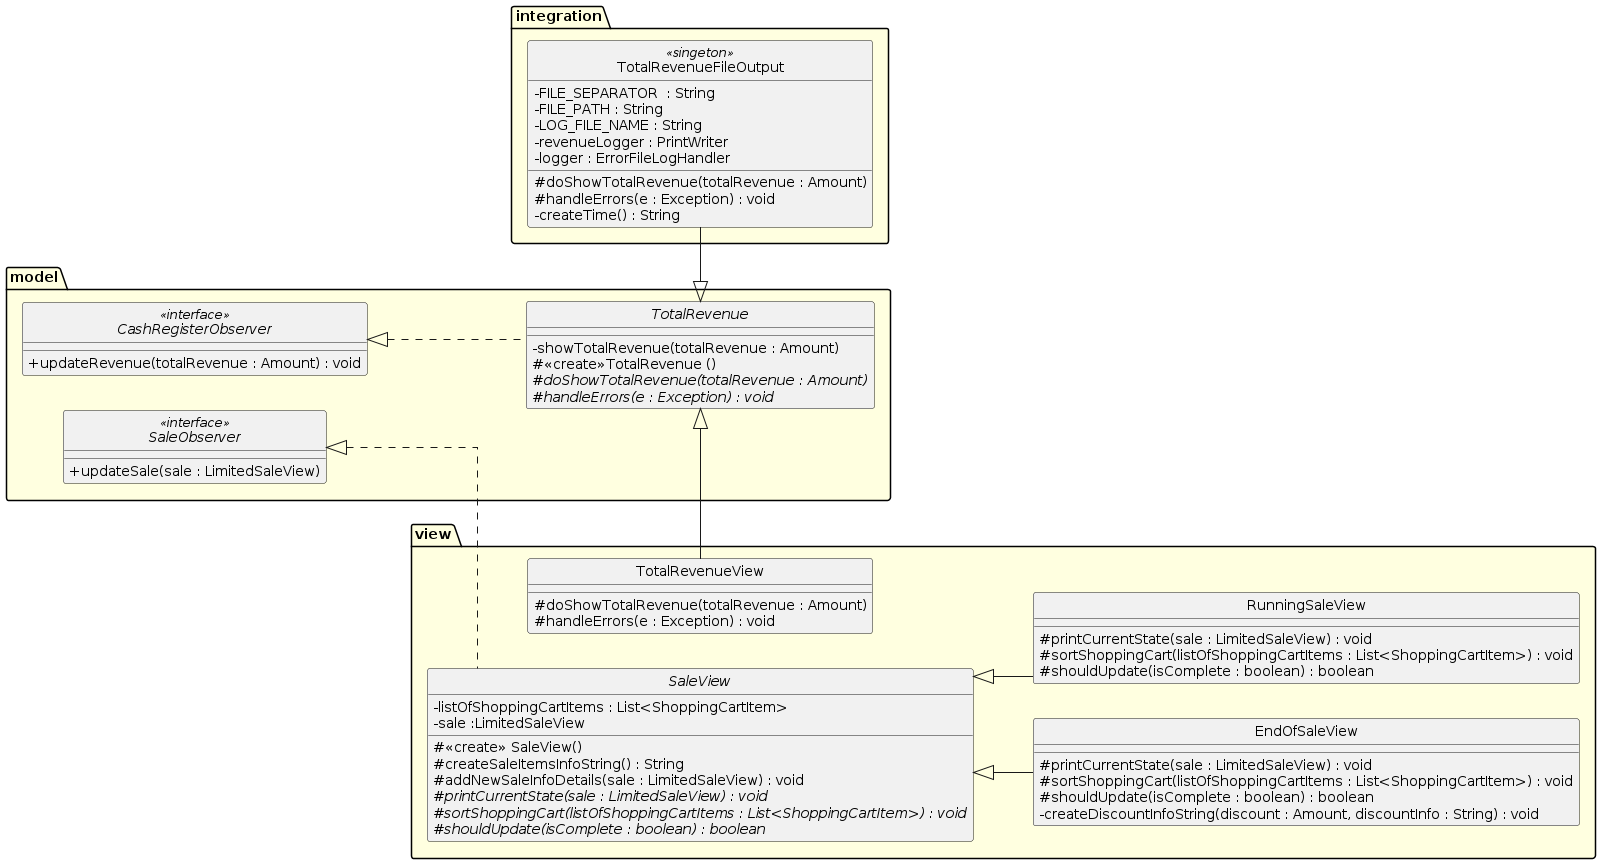
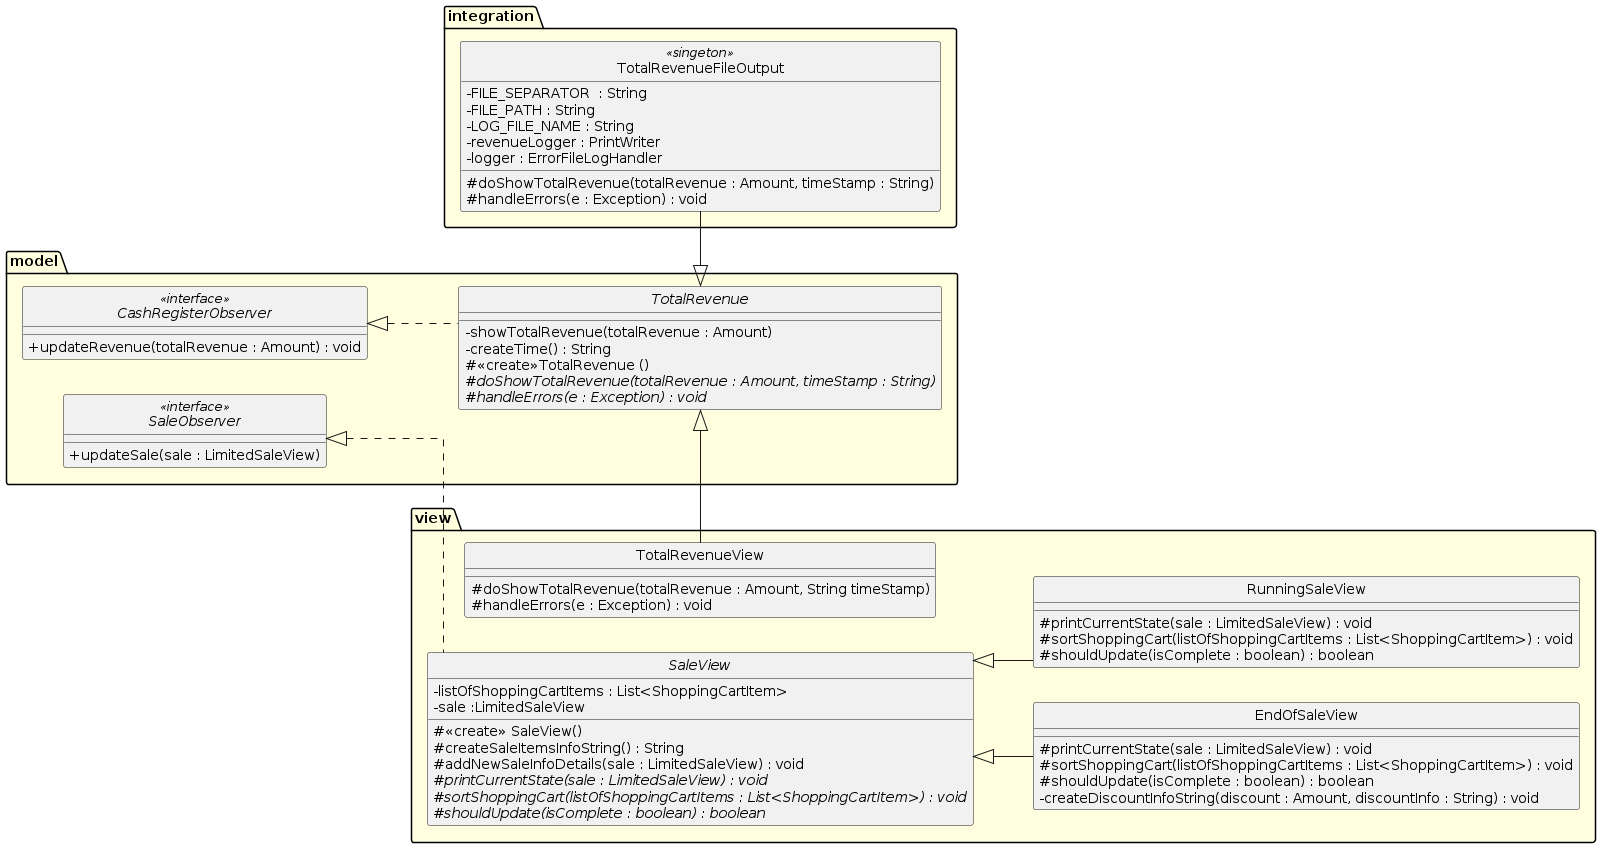
Additional points task 1 and task 2 (#47)
* Updating the template method design for the cash register observers.

* Updating the template method design for the cash register observers.

* Adding additional tasks.

Changed region(s): [[0.0, 0.0, 0.9994, 0.7358], [0.2498, 0.6745, 0.9994, 0.9811], [0.6246, 0.8278, 0.9681, 0.9505]]

diff --git a/tex/additional-points/ahp-tasks-iv1350-ferrigan.tex b/tex/additional-points/ahp-tasks-iv1350-ferrigan.tex
@@ -147,14 +147,20 @@ This enables testing classes in both the integration and util layer package.
 \end{longlisting}
 
 \section*{The overall Work-flow}
-\section*{Task 1, Inheritance}
-\section*{Task 2, Inheritance vs Composition}
-\section*{Task 3, Testing Output}
+To implement the template method pattern,
+there was a given pseudocode in the task that was used.
+The pseudocode contained a prescribed structure with methods, including error handling.
+This task was based on the template for the observer pattern from Seminar 4,
+so the given structure was followed.
+
+Several resources were used for solving both task 1 and task 2; the course textbook, The GoF Design Patterns
+and Clean Code -- A handbook of Agile Software Craftmanship.
+The latter was mostly used as a guide in implementing error and exception handling.
 
 \newpage
 \chapter{Result}
 \label{sec:result}
-The entire program, including the additional tasks can be found here on GitHub:
+The entire program, including the additional tasks can be found on GitHub:
 
 \subsubsection*{GitHub-Repo}
 \url{https://github.com/VincentFerrigan/kth-iv1350-object-oriented-design}
@@ -194,6 +200,22 @@ acts as the template for cash register observers
 The class diagram for the observer and template method pattern
 is illustrated in figure ~\ref{fig:the-observers}.
 
+The protected abstract methods are the only methods that the subclasses \emph{must} override.
+Those are
+\mintinline{java}{doShowTotalRevenue(Amount totalRevenue, String timeStamp)}
+\mintinline{java}{handleErrors(Exception e)}.
+The former is a method that should show the total revenue and the latter should handle errors that are thrown.
+In other words, the only behaviour that may vary.
+Both Cash-Register observers display the total revenue and a time stamp.
+The creation of the time stamp
+\mintinline{java}{createTime}, and the try catch statement in
+\mintinline{java}{showTotalRevenue} are joint steps
+that are pulled up to the template base class.
+
+The constructor is considered a hook method that \emph{may} be override
+(for example, \mintinline{java}{TotalRevenueView} has but
+\mintinline{java}{TotalRevenueView} has not).
+
 As mentioned above, the template method
 is not only applied on the task at hand (revenue updates),
 but also for the observers that display sale details.
@@ -206,6 +228,91 @@ is demonstrated in all samples that are included in the README file,
 and therefore presented on the GitHub repository page.
 
 \section*{Task 2, Inheritance vs Composition}
+Both inheritance and composition can be used to extend or wrap functionality
+of existing classes.
+Inheritance allows one to create a subtype
+that can be used anywhere the superclass is expected,
+while composition allows you to control how you expose the wrapped functionality,
+and can also enable wrapping multiple objects or changing the wrapped object at runtime.
+
+The class
+\mintinline{java}{LoggingRandomAsRandom} extends
+Random and overrides the
+nextInt method to log whenever a new random number is generated.
+So does the quite silly example
+\mintinline{java}{LoggingRandomDiceNumbersISARandom}.
+
+
+\mintinline{java}{LoggingRandomHasRandom} wraps a
+Random instance and logs whenever a new number is generated.
+Its silly equivalent,
+\mintinline{java}{LoggingRandomDiceNumbersISARandom}.
+
+As seen in the examples above,
+both inheritance and composition can be used to extend or
+wrap functionality of existing classes.
+Inheritance allows you to create a subtype that can be
+used anywhere the superclass is expected,
+while composition allows you to control how you expose the
+wrapped functionality,
+and can also enable wrapping multiple objects or changing the
+wrapped object at runtime.
+
+\begin{longlisting}
+    \inputminted[
+        label=Random adapted with Inheritance,
+        linenos=true,
+        bgcolor=lightgray,
+        firstline=5,
+        lastline=12,
+%        frame=single,
+        fontsize=\footnotesize,
+    ]{java}{../../additional/task2/LoggingRandomAsRandom.java}
+    \caption{Random adapted with inheritance. This class generates integers and prints them to System.out}
+    \label{listing:isa-a}
+\end{longlisting}
+\begin{longlisting}
+    \inputminted[
+        label=The Silly Inheritance examples,
+        linenos=true,
+        bgcolor=lightgray,
+        firstline=5,
+        lastline=12,
+%        frame=single,
+        fontsize=\footnotesize,
+    ]{java}{../../additional/task2/LoggingRandomDiceNumbersISARandom.java}
+    \caption{If random only was able to generate numbers on a dice. Here implemented with inheritance.}
+    \label{listing:silly-isa-a}
+\end{longlisting}
+
+\begin{longlisting}
+    \inputminted[
+        label=Random adapted with Inheritance,
+        linenos=true,
+        bgcolor=lightgray,
+        firstline=5,
+        lastline=13,
+%        frame=single,
+        fontsize=\footnotesize,
+    ]{java}{../../additional/task2/LoggingRandomHasRandom.java}
+    \caption{Random adapted with Composition. This class generates integers and prints them to System.out}
+    \label{listing:has-a}
+\end{longlisting}
+\begin{longlisting}
+    \inputminted[
+        label=The Silly Composite examples,
+        linenos=true,
+        bgcolor=lightgray,
+        firstline=5,
+        lastline=13,
+%        frame=single,
+        fontsize=\footnotesize,
+    ]{java}{../../additional/task2/LoggingRandomDiceNumbersHasRandom.java}
+    \caption{If random only was able to generate numbers on a dice.
+    Here implemented with composition}
+    \label{listing:silly-has-a}
+\end{longlisting}
+
 \section*{Task 3, Testing Output}
 
 %\begin{longlisting}
@@ -227,8 +334,38 @@ and therefore presented on the GitHub repository page.
 \chapter{Discussion}
 \label{sec:discussion}
 \section*{The Template Model}
+The Template Method Pattern is a design pattern that defines the skeleton of an algorithm in the base class but lets the extended classes override specific steps of the algorithm without changing its structure.
+Here's a summary of what makes the Template Method Pattern useful:
+\begin{enumerate}
+    \item Code Reuse -- eliminates duplicated code.
+    \item Consistency is assured since the identical steps of an algorithm are laid out in a single place (the template method in the parent class), ensuring that all implementations of the algorithm will behave consistently.
+    \item By keeping the high-level algorithm in the base class and giving subclasses only the ability to change certain details, you you can prevent subclasses from making radical changes to the algorithm or its resulting behavior.
+\end{enumerate}
+The refactoring of the Sale Observers to utilize the Template method proved to be particularly beneficial.
+There, more steps were added to the base template class than for the Cash Register Observers.
+
 \section*{Inheritance vs Composition}
-\section*{Testing Output}
+In GoF one can read that there's a principle in object-oriented design known as the
+\emph{''composition over inheritance''-principle}.
+This principle suggests that it can be better to achieve code reuse and flexibility by composing objects—i.e., by having instances of other classes as members of your class—rather than inheriting from a parent class.
+
+\subsubsection*{The IS-A relationship}
+When
+\mintinline{java}{LoggingRandomAsRandom} extends Random, it forms an ''is-a'' relationship.
+This means
+\mintinline{java}{LoggingRandomAsRandom} is a Random.
+It has all the methods that Random has, and any methods we add or override.
+The problem comes when Random has a method that we don't want LoggingRandomAsRandom to have, or if Random changes in a future Java version in a way that breaks our class.
+
+\subsubsection*{The HAS-A relationship}
+When we use composition to create
+\mintinline{java}{LoggingRandomHasRandom}, we form a ''has-a'' relationship.
+\mintinline{java}{LoggingRandomHasRandom} isn't a Random, it has a Random.
+It only exposes the methods we choose to expose, and it doesn't have to have any methods that don't make sense for it.
+We can control how the Random's methods are used, or even use methods from multiple objects.
+
+While inheritance can be simpler and more straightforward for simple cases, composition can provide more flexibility, better encapsulation, and make your code more resilient to changes in the classes you're reusing code from.
+This is most probably why composition is often preferred over inheritance.
 
 %\appendix
 %\chapter{UML -- The Refined Design}

diff --git a/src/main/se/kth/iv1350/model/TotalRevenue.java b/src/main/se/kth/iv1350/model/TotalRevenue.java
@@ -3,6 +3,11 @@ package se.kth.iv1350.model;
 import se.kth.iv1350.model.Amount;
 import se.kth.iv1350.model.CashRegisterObserver;
 
+import java.time.LocalDateTime;
+import java.time.format.DateTimeFormatter;
+import java.time.format.FormatStyle;
+import java.util.Locale;
+
 /**
  * A template for a cash register observer that displays the total revenue, each time it changes.
  */
@@ -24,21 +29,30 @@ public abstract class TotalRevenue implements CashRegisterObserver {
 
     private void showTotalRevenue(Amount totalRevenue) {
         try {
-            doShowTotalRevenue(totalRevenue);
+            doShowTotalRevenue(totalRevenue, createTime());
         } catch(Exception e) {
             handleErrors(e);
         }
     }
 
+    private String createTime() {
+        Locale locale = new Locale("sv", "SE");
+        DateTimeFormatter formatter = DateTimeFormatter.ofLocalizedDateTime(FormatStyle.MEDIUM).localizedBy(locale);
+        LocalDateTime now = LocalDateTime.now();
+        return now.format(formatter);
+    }
+
     /**
      * Shows the total revenue.
      * @param totalRevenue the new total revenue
+     * @param timeStamp formatted time information, identifying
+     *                  when the info was displayed
      */
-    protected abstract void doShowTotalRevenue(Amount totalRevenue);
+    protected abstract void doShowTotalRevenue(Amount totalRevenue, String timeStamp);
 
     /**
      * Handles errors that are thrown.
      * @param ex the exception thrown
      */
-    protected abstract void handleErrors (Exception e );
+    protected abstract void handleErrors(Exception e );
 }

diff --git a/src/main/se/kth/iv1350/integration/TotalRevenueFileOutput.java b/src/main/se/kth/iv1350/integration/TotalRevenueFileOutput.java
@@ -7,10 +7,6 @@ import se.kth.iv1350.model.TotalRevenue;
 import java.io.FileWriter;
 import java.io.IOException;
 import java.io.PrintWriter;
-import java.time.LocalDateTime;
-import java.time.format.DateTimeFormatter;
-import java.time.format.FormatStyle;
-import java.util.Locale;
 
 /**
  * A Singleton that creates an instance responsible for
@@ -48,10 +44,12 @@ public class TotalRevenueFileOutput extends TotalRevenue {
     /**
      * Creates a string builder with total revenue, that is to be written to a file.
      * @param totalRevenue the new total revenue
+     * @param timeStamp formatted time information, identifying
+     *                  when the info was displayed
      */
     @Override
-    protected void doShowTotalRevenue(Amount totalRevenue) {
-       revenueLogger.println("%s %s: %s".formatted("Total revenue ", createTime(), totalRevenue));
+    protected void doShowTotalRevenue(Amount totalRevenue, String timeStamp) {
+       revenueLogger.println("%s %s ; %s".formatted("Total revenue" , timeStamp, totalRevenue));
     }
 
     /**
@@ -63,10 +61,4 @@ public class TotalRevenueFileOutput extends TotalRevenue {
         logger.log(ex);
     }
 
-    private String createTime() {
-        Locale locale = new Locale("sv", "SE");
-        DateTimeFormatter formatter = DateTimeFormatter.ofLocalizedDateTime(FormatStyle.MEDIUM).localizedBy(locale);
-        LocalDateTime now = LocalDateTime.now();
-        return now.format(formatter);
-    }
 }

diff --git a/src/main/se/kth/iv1350/view/TotalRevenueView.java b/src/main/se/kth/iv1350/view/TotalRevenueView.java
@@ -15,11 +15,11 @@ public class TotalRevenueView extends TotalRevenue {
      * @param totalRevenue the new total revenue
      */
     @Override
-    protected void doShowTotalRevenue(Amount totalRevenue) {
+    protected void doShowTotalRevenue(Amount totalRevenue, String timeOfUpdate) {
         System.out.println("");
-        System.out.println("--------------- Revenue update follows --------------");
-        System.out.println("%-40s%s".formatted("Total revenue:", totalRevenue));
-        System.out.println("--------------- End of Revenue update ---------------");
+        System.out.println("--------------- Revenue update follows -------------");
+        System.out.println("%s%s%-7s%s".formatted("Total revenue, ", timeOfUpdate," : ", totalRevenue));
+        System.out.println("--------------- End of Revenue update --------------");
     }
 
     /**

diff --git a/additional/task2/Main.java b/additional/task2/Main.java
@@ -1,0 +1,16 @@
+package task2;
+public class Main{
+    public static void main(String[] args) {
+        LoggingRandomAsRandom randomAsRandom =new LoggingRandomAsRandom();
+        LoggingRandomHasRandom randomHasRandom =new LoggingRandomHasRandom();
+
+        LoggingRandomDiceNumbersISARandom diceIsARandom = new LoggingRandomDiceNumbersISARandom();
+        LoggingRandomDiceNumbersHasRandom diceHasRandom = new LoggingRandomDiceNumbersHasRandom();
+
+        int randomNumber = randomAsRandom.nextInt();
+        randomNumber = randomHasRandom.nextInt();
+        randomNumber = diceIsARandom.nextInt();
+        randomNumber = diceHasRandom.nextInt();
+
+    }
+}

diff --git a/additional/task2/LoggingRandomDiceNumbersHasRandom.java b/additional/task2/LoggingRandomDiceNumbersHasRandom.java
@@ -1,0 +1,13 @@
+package task2;
+
+import java.util.Random;
+
+public class LoggingRandomDiceNumbersHasRandom {
+    private Random random = new Random();
+
+    public int nextInt() {
+        int result = random.nextInt(6) +1;
+        System.out.println("Generated random dice number: " + result);
+        return result;
+    }
+}

diff --git a/additional/task2/LoggingRandomHasRandom.java b/additional/task2/LoggingRandomHasRandom.java
@@ -1,0 +1,13 @@
+package task2;
+
+import java.util.Random;
+
+public class LoggingRandomHasRandom {
+    private final Random random = new Random();
+
+    public int nextInt() {
+        int result = random.nextInt();
+        System.out.println("Generated random dice number: " + result);
+        return result;
+    }
+}

diff --git a/additional/task2/LoggingRandomDiceNumbersISARandom.java b/additional/task2/LoggingRandomDiceNumbersISARandom.java
@@ -1,0 +1,12 @@
+package task2;
+
+import java.util.Random;
+
+public class LoggingRandomDiceNumbersISARandom extends Random {
+    @Override
+    public int nextInt() {
+        int result = super.nextInt(6) + 1;
+        System.out.println("Generated random dice number: " + result);
+        return result;
+    }
+}

diff --git a/additional/task2/LoggingRandomAsRandom.java b/additional/task2/LoggingRandomAsRandom.java
@@ -1,0 +1,12 @@
+package task2;
+
+import java.util.Random;
+
+public class LoggingRandomAsRandom extends Random {
+    @Override
+    public int nextInt() {
+        int result = super.nextInt();
+        System.out.println("Generated random dice number: " + result);
+        return result;
+    }
+}
